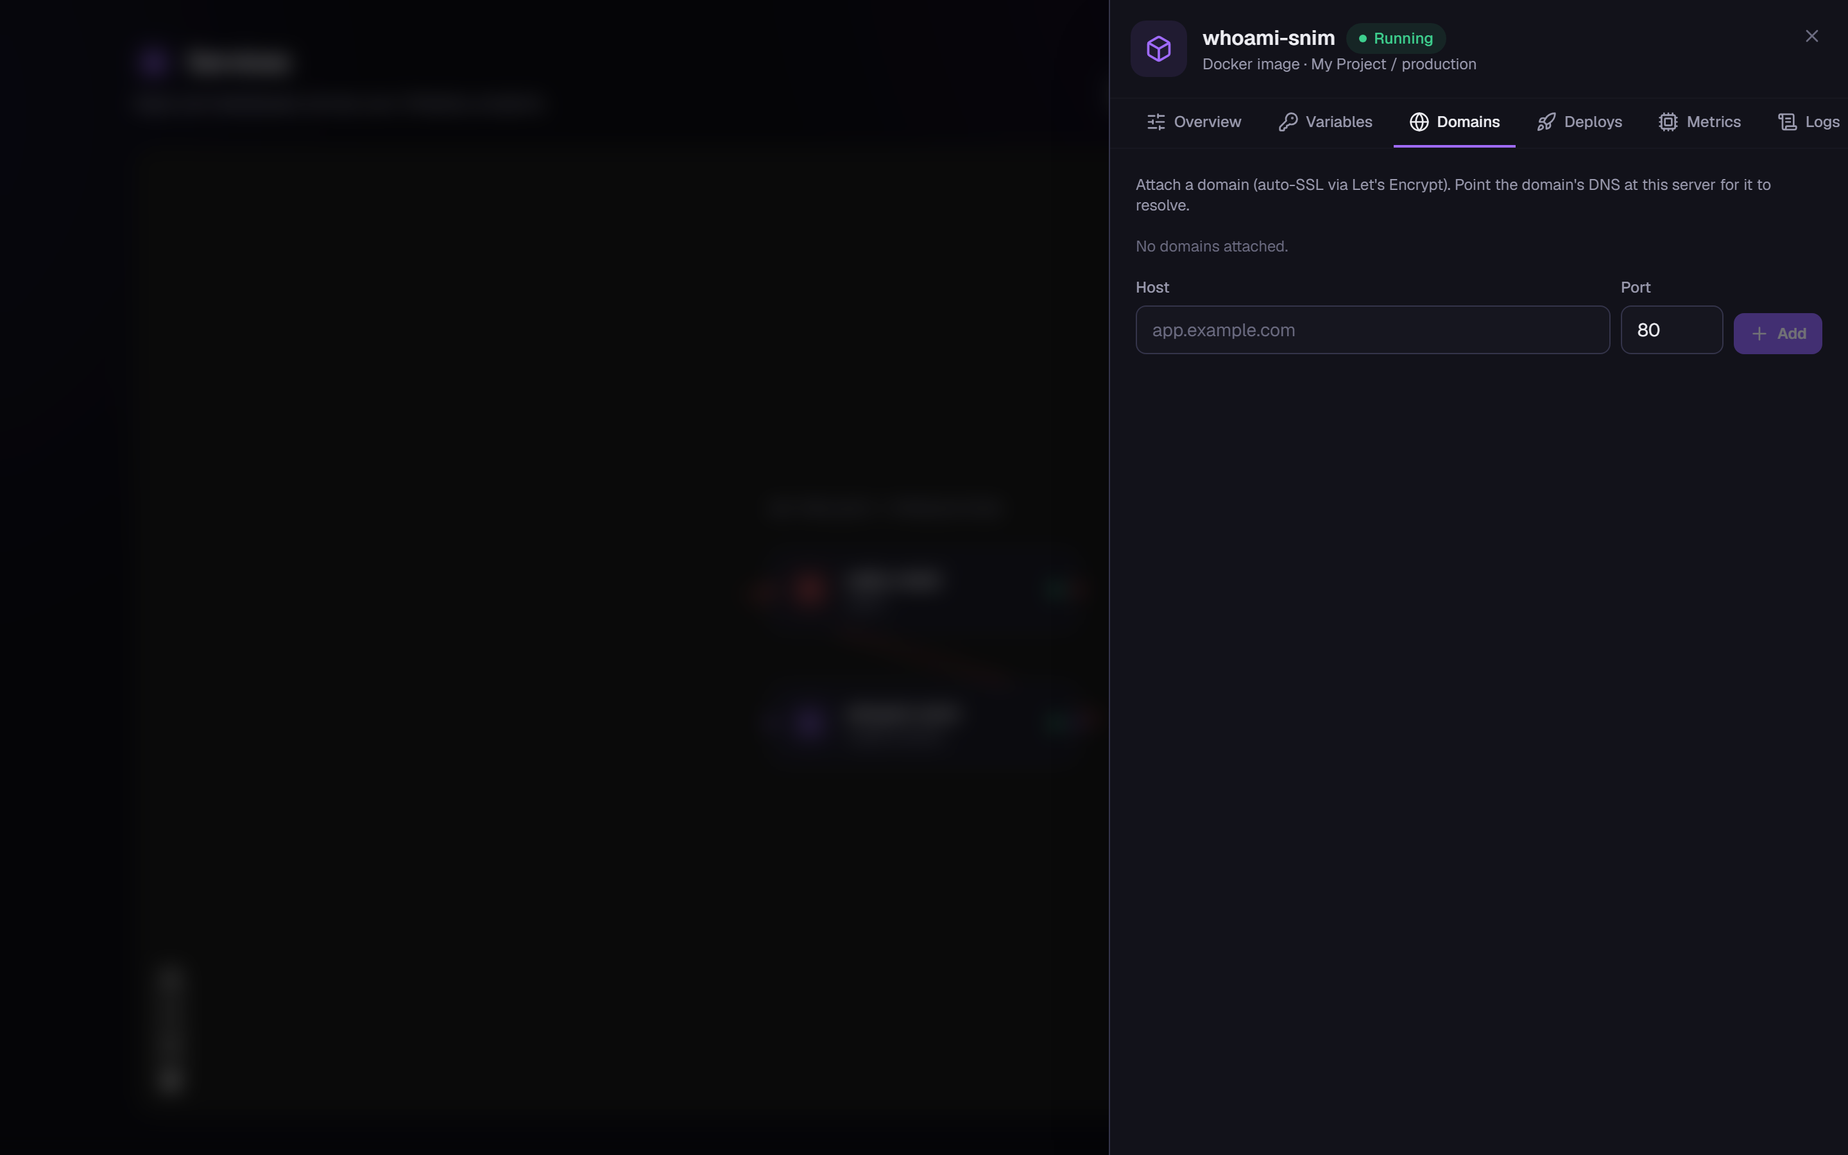
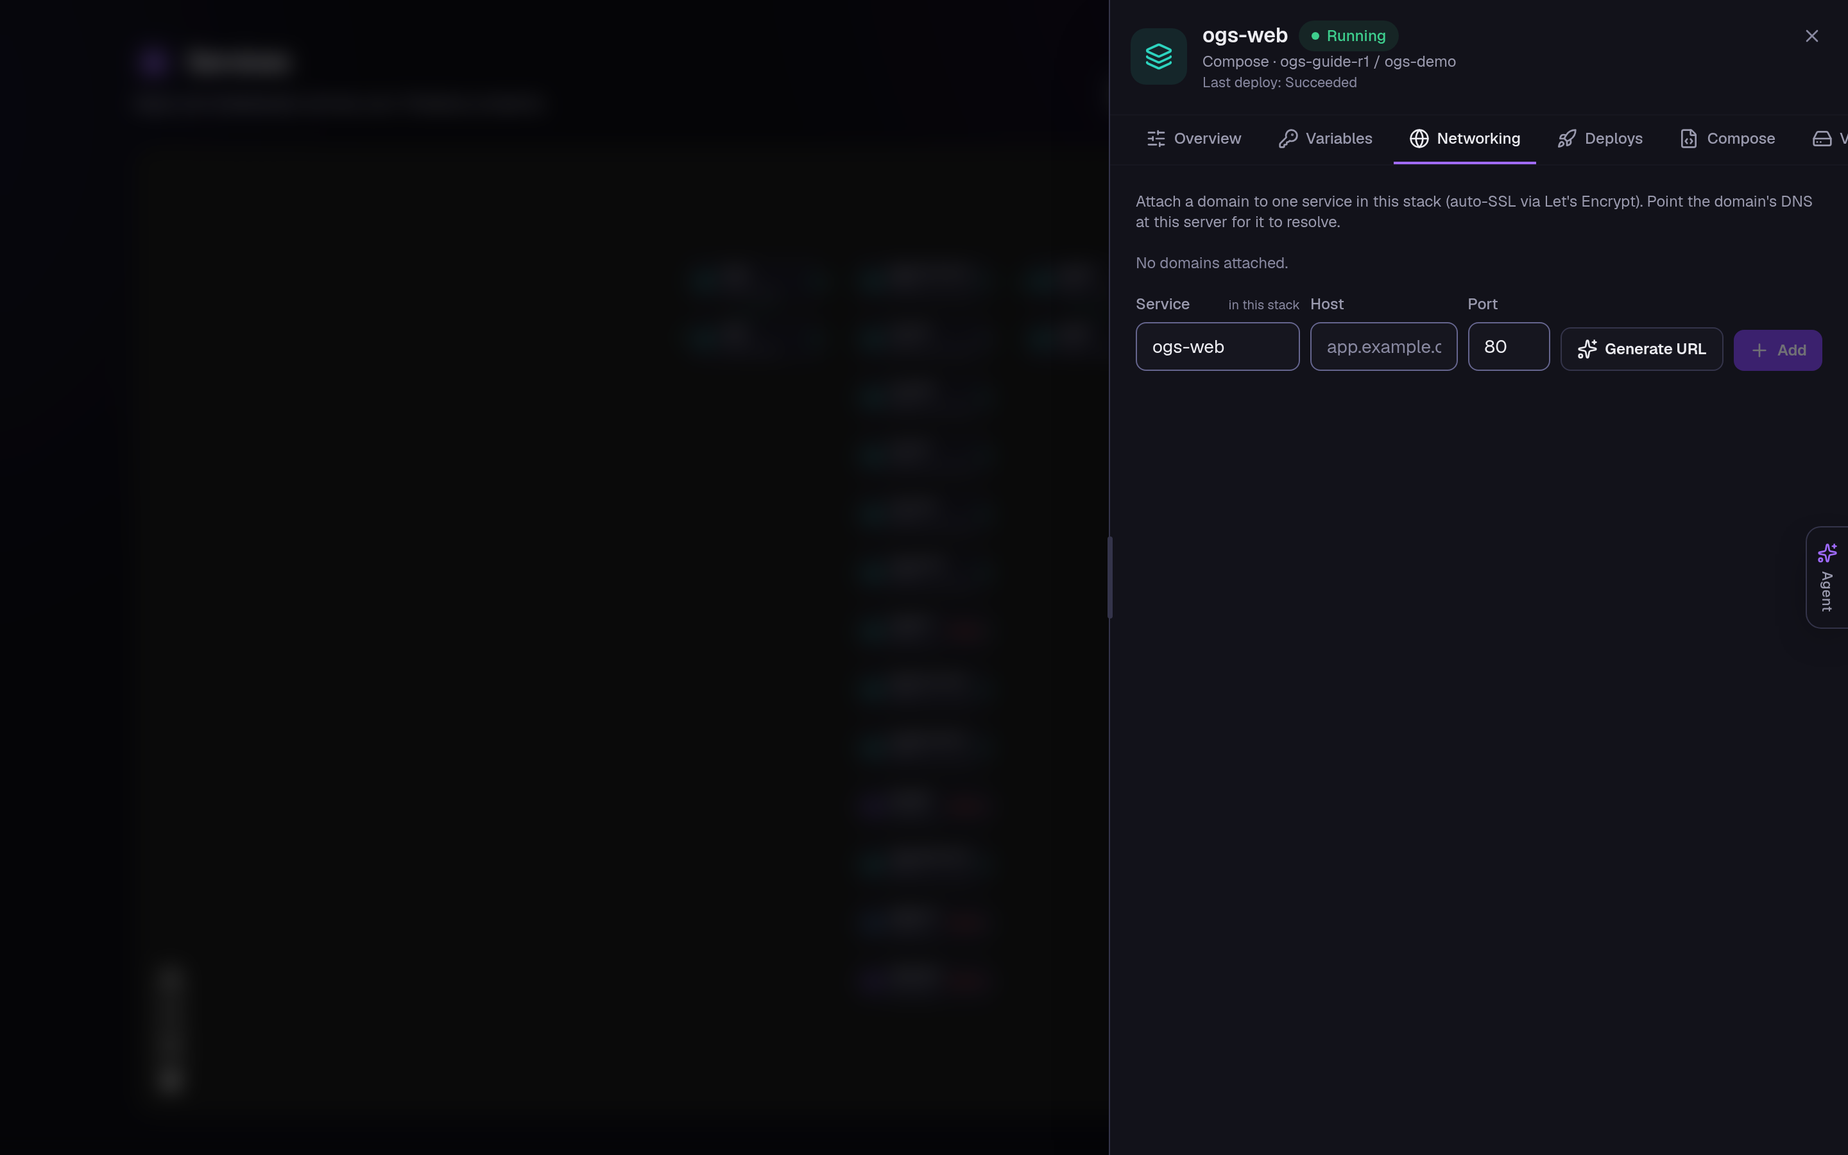
Re-shoot operator guide screenshots with healthy services
All 13 docs/images PNGs re-captured at 2880x1800 (1440x900 @2x) from local throwaway
ogs-web (nginx) + ogs-redis Compose stacks, every drawer Running / Last deploy Succeeded.
Guide text and alt text updated to match; manifest.json refreshed.

diff --git a/docs/dashboard-guide.md b/docs/dashboard-guide.md
@@ -6,19 +6,21 @@ This guide tours the features. To install the stack and connect Switchyard to it
 
 > **Login required — but a login is not TLS.** Switchyard gates every page, action, and log/metric stream behind a per-user Dokploy login (`/login`). A signed-in user still holds full Dokploy admin (create/destroy services, read database passwords, stream logs) and traffic is plain HTTP — keep it on localhost (the default) or put an HTTPS proxy in front before exposing it. See the [security note in getting-started](getting-started.md#set-up-switchyard-both-platforms) and the security model in [architecture.md](architecture.md).
 
-The screenshots come from a live local deployment with two demo services: `redis-mskd`, a Redis database created with one click, and `whoami-snim`, an application deployed from the `traefik/whoami` Docker image.
+The screenshots use two running local demo services: `ogs-web` (`nginx:alpine`) and `ogs-redis` (`redis:7`), deployed as separate Compose stacks in `ogs-guide-r1 / ogs-demo`. Compose works on this test host's bridge network without Swarm. All service drawers show **Running** and **Last deploy: Succeeded**; the guide describes native application and managed-database controls separately where they differ from Compose.
+
+Captured from dashboard revision `608d7cb` on localhost:3009 at 1440×900 with 2× device scale (2880×1800 PNGs). Both containers passed health checks, and the web container could reach Redis over their private network. The throwaway services were deleted after capture.
 
 ## The workspace
 
 Open http://localhost:3001. The header reads **Services** ("Apps and databases across your Dokploy projects") and carries four controls on the right: a **Canvas | Grid** view toggle, **Projects**, **Refresh**, and the purple **New service** button. On a fresh install the workspace shows a "No services yet" placeholder with a New service button; once you have services, the canvas is the default view.
 
-![Canvas view: the whoami-snim application node and the redis-mskd database node under the "My Project / production" label, joined by an inferred edge, with minimap and zoom controls](images/canvas-overview.png)
+![Canvas view centered on the running ogs-web and ogs-redis Compose nodes in ogs-guide-r1 / ogs-demo, joined by an inferred dependency edge, with minimap and zoom controls](images/canvas-overview.png)
 
 ### Canvas view
 
-Each service is a draggable card: an icon and accent color per kind (purple box for applications, engine-colored database icon for databases, teal layers for compose stacks), the service name, a subtitle with its Docker image or kind, and a status dot on the right. Services are grouped by project and environment — the uppercase label ("MY PROJECT / PRODUCTION" above) marks each group's column.
+Each service is a draggable card: an icon and accent color per kind (purple box for applications, engine-colored database icon for databases, teal layers for compose stacks), the service name, a subtitle with its Docker image or kind, and a status dot on the right. Each card also shows its project and environment, such as `ogs-guide-r1 / ogs-demo` above.
 
-The animated dashed line from `whoami-snim` to `redis-mskd` is an inferred connection: the app's environment variables reference the Redis service, so Switchyard draws an arrow from the consumer to its dependency. [How canvas connections work](#how-canvas-connections-work) explains the heuristic.
+The animated dashed line from `ogs-web` to `ogs-redis` is an inferred connection: the web stack's environment variables reference the Redis service, so Switchyard draws an arrow from the consumer to its dependency. [How canvas connections work](#how-canvas-connections-work) explains the heuristic.
 
 - Click a node to open its drawer.
 - Drag nodes to arrange them; positions are remembered in your browser's localStorage (not on the server), so the layout is per-browser.
@@ -28,7 +30,9 @@ The animated dashed line from `whoami-snim` to `redis-mskd` is an inferred conne
 
 Click **Grid** in the header toggle for a flat card list — handy once the canvas gets busy or on narrow windows.
 
-![Grid view: redis-mskd and whoami-snim cards, each with a Running badge and its "My Project / production" scope](images/grid-view.png)
+![Grid view including ogs-redis and ogs-web Compose cards with Running badges and their ogs-guide-r1 / ogs-demo scope, alongside other local demo services](images/grid-view.png)
+
+The two `ogs-*` cards are Running. The shared local test workspace also contains unrelated Idle and Error cards.
 
 Each card shows the same identity, status badge, and project/environment scope; click a card to open the drawer. Services that have never been deployed show a one-click **Deploy** button directly on the card.
 
@@ -36,7 +40,7 @@ Each card shows the same identity, status badge, and project/environment scope; 
 
 Dokploy organizes services under **project → environment** (for example `My Project / production`). Click **Projects** in the header to manage that tree.
 
-![Projects & environments panel: My Project with its production environment, rename and delete icons, a "new environment" input with Add env, and the new-project input](images/projects-view.png)
+![Projects & environments panel showing ogs-guide-r1 with ogs-demo and the default production environment, rename and delete controls, Add env, and the new-project input](images/projects-view.png)
 
 - Create a project with the **new project name** input at the bottom.
 - Add an environment to a project with its inline **new environment** input and **Add env**.
@@ -61,7 +65,7 @@ The page renders from live Dokploy state on every load, and every action (deploy
 
 Click **New service** to open the creation menu. Everything here is one click (or one field) away from a deployed service; all details are editable afterward in the drawer.
 
-![New service menu: Application section with docker image input, git repo input, From GitHub and Compose stack rows; Templates section with the App catalog; Database section listing PostgreSQL, MySQL, MariaDB, MongoDB and Redis with version tags](images/new-service-menu.png)
+![New service menu targeting ogs-guide-r1 / ogs-demo: application inputs, From GitHub, Compose stack, App catalog, and the five managed database engines](images/new-service-menu.png)
 
 The **Application** section offers four ways in: deploy from a Docker image, deploy from a public Git URL, deploy through a GitHub App (including private repositories), or create a Compose stack. The **Database** section lists the five managed engines with the exact image each would deploy: `postgres:18`, `mysql:8.4`, `mariadb:11`, `mongo:8`, `redis:7`.
 
@@ -69,7 +73,7 @@ The **Application** section offers four ways in: deploy from a Docker image, dep
 
 Click an engine row and Switchyard provisions and deploys a database immediately — no form. It auto-generates:
 
-- a friendly name: the engine plus a random suffix (that's where `redis-mskd` came from),
+- a friendly name: the engine plus a random suffix (for example `redis-mskd`),
 - a random 20-character password,
 - the newest curated version of the engine (the tag shown in the menu).
 
@@ -79,9 +83,9 @@ For PostgreSQL, MySQL, and MariaDB the user defaults to `admin` and the database
 
 Type any public image reference into the **docker image** field — `nginx:alpine`, `traefik/whoami`, `ghcr.io/org/app:tag` — and click **Deploy** (or press Enter).
 
-![New service menu with the docker image field filled in with traefik/whoami and the Deploy button enabled](images/deploy-image-filled.png)
+![New service menu targeting ogs-guide-r1 / ogs-demo with nginx:alpine in the docker image field and the Deploy button enabled](images/deploy-image-filled.png)
 
-Switchyard creates an application named after the image plus a random suffix (`traefik/whoami` became `whoami-snim`), points it at the image, and deploys it. The drawer opens on the new service. There are no registry-credential fields in this menu, so the image must be publicly pullable.
+Switchyard creates an application named after the image plus a random suffix (for example `nginx-ab12`), points it at the image, and deploys it. The drawer opens on the new service. There are no registry-credential fields in this menu, so the image must be publicly pullable. The screenshot shows the form before submission; the running demo uses Compose instead.
 
 ### Deploy from a Git repository
 
@@ -99,11 +103,7 @@ If no GitHub App is connected, the modal shows **Connect GitHub App**, linking t
 
 ### Compose stacks
 
-Click **Compose stack** and Switchyard immediately creates the service — again, no form. It appears on the canvas as **Idle** (nothing is running yet) and its drawer opens. On the **Compose** tab you'll find the editor seeded with a starter `docker-compose.yml`:
-
-![Compose stack drawer for compose-iduw in Idle state, showing the Compose tab's YAML editor with the nginx:alpine starter template and the Save and Save & deploy buttons](images/compose-editor.png)
-
-The starter file runs nginx and publishes it on port 8080:
+Click **Compose stack** and Switchyard immediately creates the service — again, no form. It appears on the canvas as **Idle** (nothing is running yet) and its drawer opens. On the **Compose** tab you'll find the editor seeded with a starter `docker-compose.yml`. The starter file runs nginx and publishes it on port 8080:
 
 ```yaml
 services:
@@ -114,6 +114,10 @@ services:
 ```
 
 Replace it with your own stack, then click **Save & deploy** to store the file and deploy it in one step (**Save** stores it without deploying). Until you deploy, the stack stays Idle — if you close the drawer without saving, the idle service still exists and can be deployed or destroyed later. Compose stacks have a **Variables** tab for their environment variables; save there and redeploy for changes to take effect.
+
+The running `ogs-web` example below uses a customized file: nginx, a health check, a 128 MB memory limit, a `REDIS_URL` variable, and a shared bridge network. It publishes no host ports.
+
+![ogs-web Compose editor: Running and Last deploy: Succeeded, saved nginx:alpine configuration with REDIS_URL, health check and shared network, plus Save and Save & deploy controls](images/compose-editor.png)
 
 ## Working with a service
 
@@ -133,26 +137,26 @@ There is no separate "Source" tab — an application's source (Docker image or G
 
 ### Overview and lifecycle
 
-Every Overview starts with the lifecycle buttons for the service's current state (see the [lifecycle reference](#lifecycle-reference)) followed by the service's key facts. For an application:
+Overview shows lifecycle buttons for the service's current state (see the [lifecycle reference](#lifecycle-reference)) and the service's key facts. The web service below runs as a Compose stack:
 
-![whoami-snim application drawer, Overview tab: Stop and Redeploy buttons, Public URL empty state, and Source, Image, Build, and Replicas fields](images/app-overview.png)
+![ogs-web Compose Overview: Running and Last deploy: Succeeded, Public URL empty state pointing at Networking, Stop and Redeploy buttons, Type and App name fields](images/app-overview.png)
+
+Compose Overview shows **Public URL**, **Type**, and **App name**, with a pointer to the Compose editor. Native application Overview also includes source and build details:
 
 - **Public URL** — an attached domain, as a clickable link; before you attach one it reads "No domain yet — add one under Networking."
 - **Source** — where the app comes from (`docker` for image deploys, the Git provider for repo deploys), with the **Image** or **Repository** next to it.
 - **Build** — Dokploy's build type. It defaults to `nixpacks`, which is what actually builds Git deploys; for image-based apps the field is informational only.
 - **Replicas** — how many task instances run.
 
-A database Overview shows the connection string (next section) plus image, internal port, replicas, database/user names, and resource limits. A compose Overview is minimal — its type and app name and a pointer to the Compose tab.
+A managed database Overview shows the connection string (next section) plus image, internal port, replicas, database/user names, and resource limits. The Redis example here runs in Compose, so it has the same Compose Overview fields as the web stack:
+
+![ogs-redis Compose Overview: Running and Last deploy: Succeeded, Stop and Redeploy controls, Public URL empty state, Type and App name fields](images/db-overview.png)
 
 ### Database connection strings
 
-Open a database's Overview to grab its connection string, ready to paste into another service's variables:
+For a native managed database, open **Overview** to copy its connection string. Compose stacks do not generate this field; use the database's configured credentials and its service name or network alias on a shared Docker network.
 
-![redis-mskd database drawer, Overview tab: Running badge, Stop and Redeploy buttons, internal connection string with copy button, and Image, Internal port, Replicas, Database, User, and Resources fields](images/db-overview.png)
-
-> **About the visible password:** the credential in this and later screenshots is a locally generated throwaway from the demo machine, gone along with it — not a leaked secret. Yours will be different (and worth protecting).
-
-The string is the **internal** address: its host is the service's *app name* (the long generated identifier shown in Settings, `redis-input-open-source-driver-…` here) and its port is the engine's default port. That name resolves only on the Dokploy overlay network, so the string works from other services deployed on the same stack — it will not work from your laptop. To reach a database from outside, set an **External port** in Settings instead, which publishes the engine's port on the host.
+A managed database's string is the **internal** address: its host is the service's *app name* (the generated identifier shown in Settings) and its port is the engine's default port. Once the database is running, that name resolves on the Dokploy overlay network, so the string works from other services deployed on the same stack — it will not work from your laptop. To reach a managed database from outside, set an **External port** in Settings instead, which publishes the engine's port on the host.
 
 The format per engine:
 
@@ -169,15 +173,15 @@ The copy button at the end of the field copies the full string.
 
 The **Variables** tab (applications, databases, and compose stacks) is a plain-text editor: one `KEY=value` per line, with `#` lines treated as comments. The counter under the editor tallies the real variables, and **Save variables** stays disabled until you change something. As the hint says, redeploy the service for changes to take effect.
 
-![whoami-snim Variables tab: a REDIS_URL entry pointing at the redis-mskd internal connection string, with the 1 variable counter and Save variables button](images/app-variables.png)
+![ogs-web Compose Variables: Running and Last deploy: Succeeded, saved REDIS_URL=redis://ogs-redis:6379, the 1 variable counter, and disabled Save variables button](images/app-variables.png)
 
-Here `whoami-snim` carries one variable, `REDIS_URL`, set to `redis-mskd`'s internal connection string. This is also what draws the canvas edge between the two services — the variable's value contains the Redis service's app name, so Switchyard infers the dependency.
+Here `ogs-web` carries one saved variable, `REDIS_URL=redis://ogs-redis:6379`. The two Compose stacks share a private bridge network where `ogs-redis` is the Redis service's alias. This password-free URL belongs to the isolated throwaway demo; use your database's configured credentials in your own connection string. The reference also draws a canvas edge because its value contains the Redis service's display name. Nginx does not consume Redis itself; this variable demonstrates passing configuration to a container, and connectivity was checked separately.
 
 ### Domains
 
 The **Networking** tab (applications and compose stacks) attaches hostnames. Enter the **Host** (for example `app.example.com`), the container **Port** your app listens on (default 80), and click **Add**. For compose stacks, also choose the target **Service** within the stack. Custom domains default to HTTPS and Let's Encrypt; the application form lets you change these options.
 
-![whoami-snim Domains tab: the auto-SSL hint, the "No domains attached." empty state, and the Host, Port and Add form](images/app-domains.png)
+![ogs-web Compose Networking: Running and Last deploy: Succeeded, No domains attached, Service set to ogs-web, Host and Port fields, Generate URL and Add buttons](images/app-domains.png)
 
 For custom public hostnames:
 
@@ -202,7 +206,7 @@ Per-deployment build logs aren't viewable in Switchyard yet (it's on the [dashbo
 
 Every kind has a **Logs** tab that streams the service's container output live — no page reloads. It opens with the last 300 lines and then follows:
 
-![redis-mskd Logs tab streaming timestamped Redis startup lines, with the filter box and the green Live indicator](images/db-logs.png)
+![ogs-redis Compose Logs: Running and Last deploy: Succeeded, real timestamped Redis startup lines ending with Ready to accept connections, Filter logs field and green Live indicator](images/db-logs.png)
 
 - The green **Live** dot confirms the stream is connected.
 - Each line is prefixed with its timestamp in your local time.
@@ -215,15 +219,17 @@ If the service isn't running you'll get a placeholder line instead of a stream. 
 
 The **Metrics** tab samples the container's CPU and memory roughly once a second while the tab is open:
 
-![redis-mskd Metrics tab: CPU 0.3% and Memory 4 MB stat cards above live CPU % and Memory area charts](images/db-metrics.png)
+![ogs-redis Compose Metrics: Running and Last deploy: Succeeded, live CPU and memory readings with a 128 MB memory limit, populated CPU and Memory charts, and history off](images/db-metrics.png)
 
-The two cards show the latest sample — CPU percentage, and memory used "of" the container's limit (when no limit is set, Docker reports the host's total, as in the screenshot). Below them, area charts keep the last 60 samples (about a minute); hover for exact values. Sampling starts when you open the tab, so the charts fill from the left. A stopped service shows "No metrics — the service isn't running."
+The two cards show the latest sample — CPU percentage, and memory used "of" the container's limit (128 MB in this example; when no limit is set, Docker reports the host's total). Below them, area charts fill with real samples while the tab is open; hover for exact values. History is off on this test dashboard, and HTTP metrics are unavailable because no Traefik metrics endpoint is configured. A stopped service shows "No metrics — the service isn't running."
 
 ### Settings and the danger zone
 
-The **Settings** tab holds everything editable plus the destructive actions. For a database:
+The **Settings** tab depends on the service kind. A Compose stack shows its app name, creation date, and Danger zone; edit its image, environment, and resource limits in Compose or Variables. Here is the running Redis stack:
 
-![redis-mskd Settings tab: name field, version selector, external port, CPU and memory limits with Save changes, masked password with reveal and copy, app name, created date, and the Danger zone](images/db-settings.png)
+![ogs-redis Compose Settings: Running and Last deploy: Succeeded, App name, Created timestamp, and Danger zone with Destroy ogs-redis](images/db-settings.png)
+
+Native managed databases have additional Settings controls:
 
 - **Name** — rename the service (display name only; the app name is fixed).
 - **Version** — a dropdown of curated tags per engine (PostgreSQL 18/17/16/15, MySQL 8.4/8.0, MariaDB 11/10, MongoDB 8/7/6, Redis 7/6). As the hint warns, changing it redeploys.
@@ -239,7 +245,7 @@ Every Settings tab ends in the red **Danger zone**: a **Destroy** button that re
 
 ## How canvas connections work
 
-Dokploy has no native "connect these services" concept, so Switchyard infers the arrows from environment variables: if service A's variables mention service B's app name (or its display name), an edge is drawn **from A to B** — from the consumer to the thing it depends on. That's why `whoami-snim → redis-mskd` appears in the hero screenshot: whoami's `REDIS_URL` contains the Redis service's app name. Edges animate and take the color of the service they point at.
+Dokploy has no native "connect these services" concept, so Switchyard infers the arrows from environment variables: if service A's variables mention service B's app name (or its display name), an edge is drawn **from A to B** — from the consumer to the thing it depends on. That's why `ogs-web → ogs-redis` appears in the hero screenshot: the web stack's `REDIS_URL` contains the Redis service's display name. Edges animate and take the color of the service they point at.
 
 Practical consequences:
 
